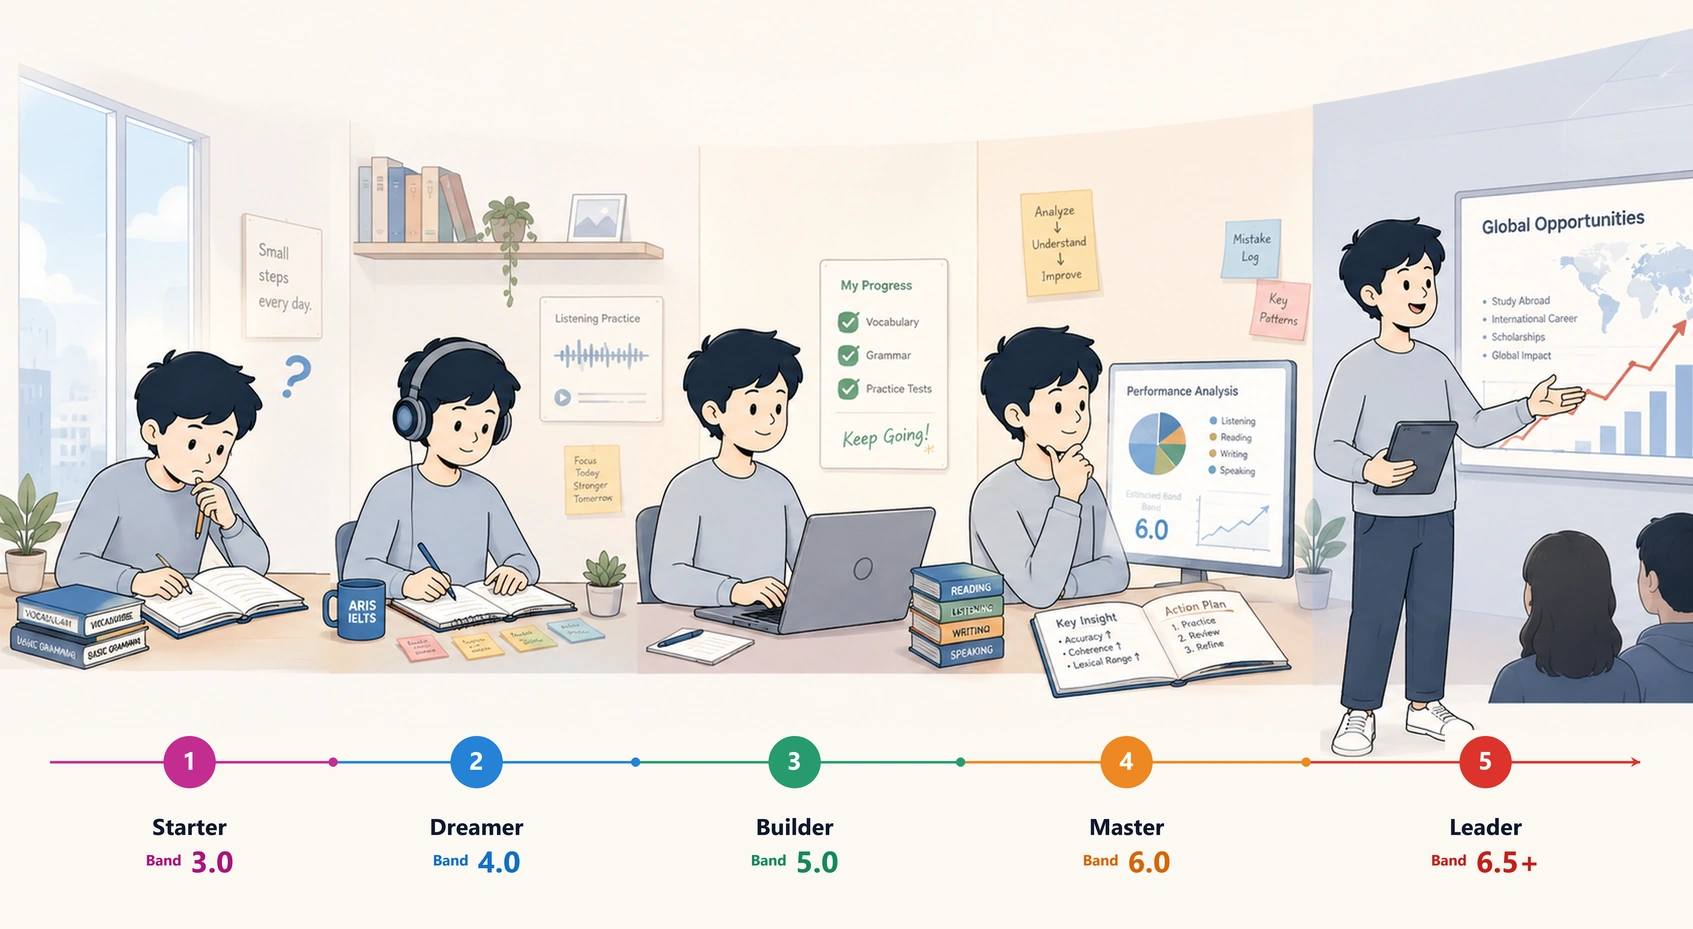
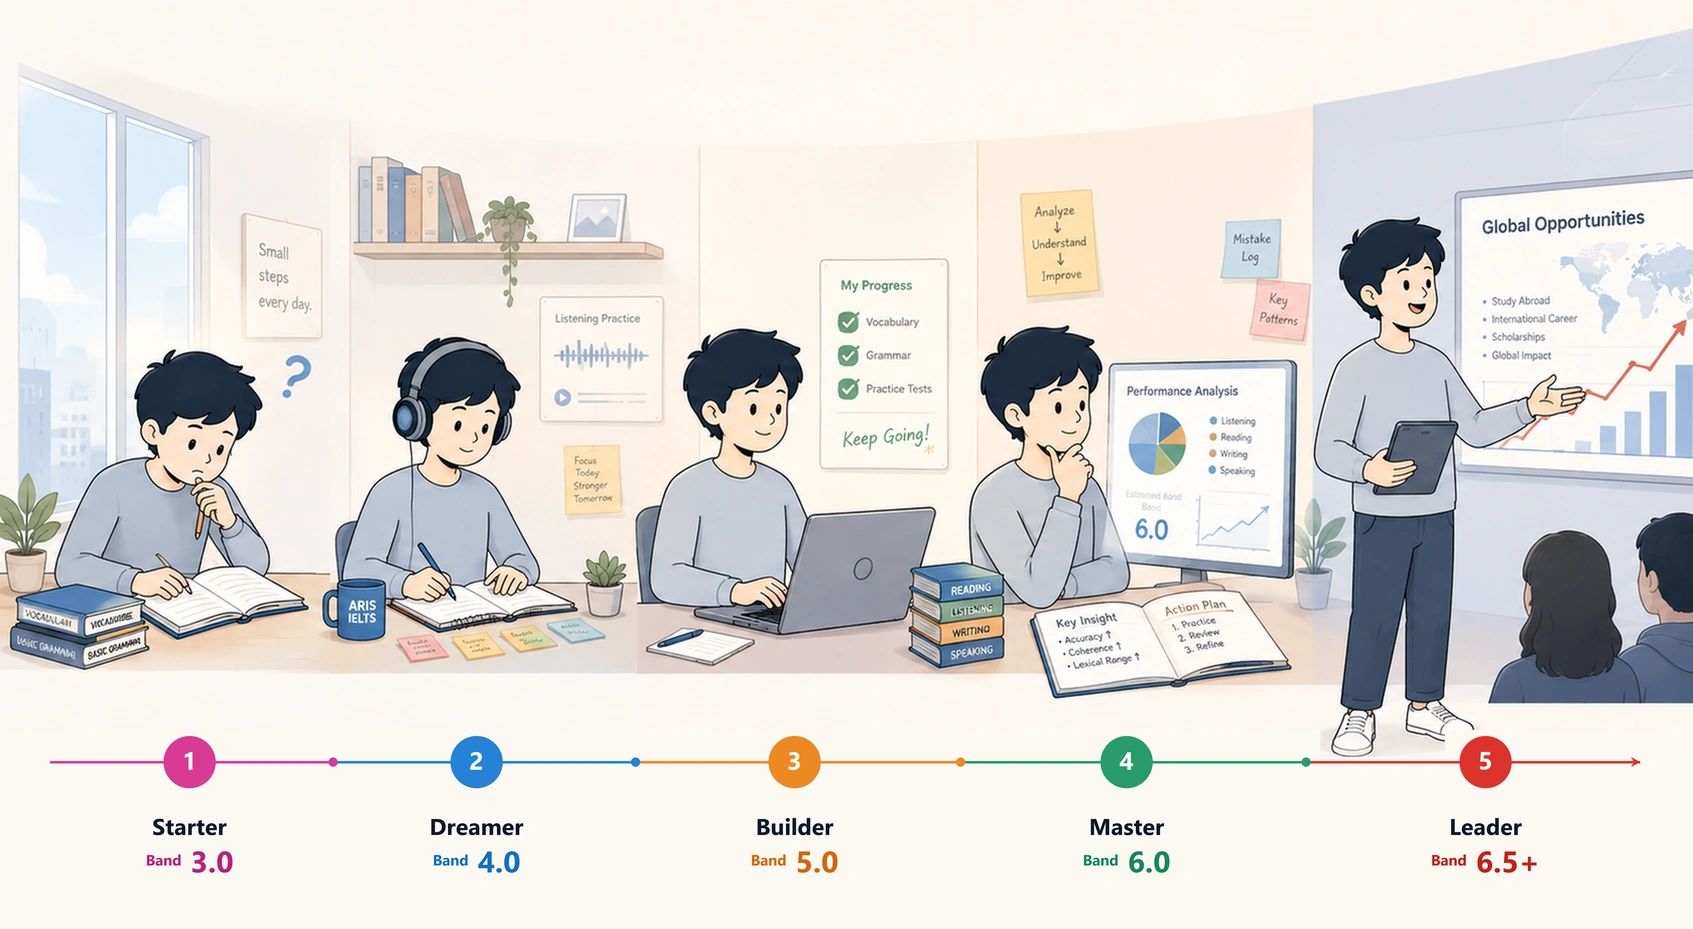
999

Changed region(s): [[0.3686, 0.7804, 0.7679, 0.8428], [0.645, 0.9053, 0.7064, 0.9365], [0.43, 0.9053, 0.4914, 0.9365]]

diff --git a/nextband/src/lib/courseBrand.ts b/nextband/src/lib/courseBrand.ts
@@ -1,0 +1,253 @@
+export interface CourseBrandInfo {
+  key: string;
+  code: string;
+  name: string;
+  band: string;
+  hex: string;
+  avatarClass: string;
+  badgeClass: string;
+  textClass: string;
+  borderClass: string;
+  dotClass: string;
+  bgSoftClass: string;
+}
+
+const COURSE_BRANDS: Record<string, CourseBrandInfo> = {
+  starter: {
+    key: 'starter',
+    code: 'ST',
+    name: 'Starter',
+    band: 'Band 3.0',
+    hex: '#D83A94',
+    avatarClass: 'bg-fuchsia-100 text-fuchsia-700 border-fuchsia-200 dark:bg-fuchsia-950/60 dark:text-fuchsia-300 dark:border-fuchsia-800',
+    badgeClass: 'bg-fuchsia-50 text-fuchsia-700 border-fuchsia-200 dark:bg-fuchsia-950/40 dark:text-fuchsia-300 dark:border-fuchsia-800',
+    textClass: 'text-fuchsia-700 dark:text-fuchsia-300',
+    borderClass: 'border-fuchsia-300 dark:border-fuchsia-800',
+    dotClass: 'bg-fuchsia-500',
+    bgSoftClass: 'bg-fuchsia-50/70 dark:bg-fuchsia-950/20',
+  },
+  dreamer: {
+    key: 'dreamer',
+    code: 'DR',
+    name: 'Dreamer',
+    band: 'Band 4.0',
+    hex: '#2582D7',
+    avatarClass: 'bg-blue-100 text-blue-700 border-blue-200 dark:bg-blue-950/60 dark:text-blue-300 dark:border-blue-800',
+    badgeClass: 'bg-blue-50 text-blue-700 border-blue-200 dark:bg-blue-950/40 dark:text-blue-300 dark:border-blue-800',
+    textClass: 'text-blue-700 dark:text-blue-300',
+    borderClass: 'border-blue-300 dark:border-blue-800',
+    dotClass: 'bg-blue-500',
+    bgSoftClass: 'bg-blue-50/70 dark:bg-blue-950/20',
+  },
+  builder: {
+    key: 'builder',
+    code: 'BU',
+    name: 'Builder',
+    band: 'Band 5.0',
+    hex: '#EE8722',
+    avatarClass: 'bg-orange-100 text-orange-700 border-orange-200 dark:bg-orange-950/60 dark:text-orange-300 dark:border-orange-800',
+    badgeClass: 'bg-orange-50 text-orange-700 border-orange-200 dark:bg-orange-950/40 dark:text-orange-300 dark:border-orange-800',
+    textClass: 'text-orange-700 dark:text-orange-300',
+    borderClass: 'border-orange-300 dark:border-orange-800',
+    dotClass: 'bg-orange-500',
+    bgSoftClass: 'bg-orange-50/70 dark:bg-orange-950/20',
+  },
+  master: {
+    key: 'master',
+    code: 'MA',
+    name: 'Master',
+    band: 'Band 6.0',
+    hex: '#289B6E',
+    avatarClass: 'bg-emerald-100 text-emerald-700 border-emerald-200 dark:bg-emerald-950/60 dark:text-emerald-300 dark:border-emerald-800',
+    badgeClass: 'bg-emerald-50 text-emerald-700 border-emerald-200 dark:bg-emerald-950/40 dark:text-emerald-300 dark:border-emerald-800',
+    textClass: 'text-emerald-700 dark:text-emerald-300',
+    borderClass: 'border-emerald-300 dark:border-emerald-800',
+    dotClass: 'bg-emerald-500',
+    bgSoftClass: 'bg-emerald-50/70 dark:bg-emerald-950/20',
+  },
+  leader: {
+    key: 'leader',
+    code: 'LE',
+    name: 'Leader',
+    band: 'Band 6.5+',
+    hex: '#DC342D',
+    avatarClass: 'bg-rose-100 text-rose-700 border-rose-200 dark:bg-rose-950/60 dark:text-rose-300 dark:border-rose-800',
+    badgeClass: 'bg-rose-50 text-rose-700 border-rose-200 dark:bg-rose-950/40 dark:text-rose-300 dark:border-rose-800',
+    textClass: 'text-rose-700 dark:text-rose-300',
+    borderClass: 'border-rose-300 dark:border-rose-800',
+    dotClass: 'bg-rose-500',
+    bgSoftClass: 'bg-rose-50/70 dark:bg-rose-950/20',
+  },
+  placement: {
+    key: 'placement',
+    code: 'PL',
+    name: 'Placement Test',
+    band: 'Test',
+    hex: '#6366F1',
+    avatarClass: 'bg-indigo-100 text-indigo-700 border-indigo-200 dark:bg-indigo-950/60 dark:text-indigo-300 dark:border-indigo-800',
+    badgeClass: 'bg-indigo-50 text-indigo-700 border-indigo-200 dark:bg-indigo-950/40 dark:text-indigo-300 dark:border-indigo-800',
+    textClass: 'text-indigo-700 dark:text-indigo-300',
+    borderClass: 'border-indigo-300 dark:border-indigo-800',
+    dotClass: 'bg-indigo-500',
+    bgSoftClass: 'bg-indigo-50/70 dark:bg-indigo-950/20',
+  },
+  extra_listening: {
+    key: 'extra_listening',
+    code: 'EX',
+    name: 'Extra Listening',
+    band: 'Listening',
+    hex: '#8B5CF6',
+    avatarClass: 'bg-purple-100 text-purple-700 border-purple-200 dark:bg-purple-950/60 dark:text-purple-300 dark:border-purple-800',
+    badgeClass: 'bg-purple-50 text-purple-700 border-purple-200 dark:bg-purple-950/40 dark:text-purple-300 dark:border-purple-800',
+    textClass: 'text-purple-700 dark:text-purple-300',
+    borderClass: 'border-purple-300 dark:border-purple-800',
+    dotClass: 'bg-purple-500',
+    bgSoftClass: 'bg-purple-50/70 dark:bg-purple-950/20',
+  },
+  entrance_thpt: {
+    key: 'entrance_thpt',
+    code: 'EN',
+    name: 'Entrance Test THPTQG',
+    band: 'THPTQG',
+    hex: '#D97706',
+    avatarClass: 'bg-amber-100 text-amber-700 border-amber-200 dark:bg-amber-950/60 dark:text-amber-300 dark:border-amber-800',
+    badgeClass: 'bg-amber-50 text-amber-700 border-amber-200 dark:bg-amber-950/40 dark:text-amber-300 dark:border-amber-800',
+    textClass: 'text-amber-700 dark:text-amber-300',
+    borderClass: 'border-amber-300 dark:border-amber-800',
+    dotClass: 'bg-amber-500',
+    bgSoftClass: 'bg-amber-50/70 dark:bg-amber-950/20',
+  },
+  luyen_thi_thpt: {
+    key: 'luyen_thi_thpt',
+    code: 'LU',
+    name: 'Luyện thi TN THPT',
+    band: 'TN THPT',
+    hex: '#0D9488',
+    avatarClass: 'bg-teal-100 text-teal-700 border-teal-200 dark:bg-teal-950/60 dark:text-teal-300 dark:border-teal-800',
+    badgeClass: 'bg-teal-50 text-teal-700 border-teal-200 dark:bg-teal-950/40 dark:text-teal-300 dark:border-teal-800',
+    textClass: 'text-teal-700 dark:text-teal-300',
+    borderClass: 'border-teal-300 dark:border-teal-800',
+    dotClass: 'bg-teal-500',
+    bgSoftClass: 'bg-teal-50/70 dark:bg-teal-950/20',
+  },
+  fallback: {
+    key: 'default',
+    code: 'CS',
+    name: 'Khóa học',
+    band: '',
+    hex: '#64748B',
+    avatarClass: 'bg-slate-100 text-slate-700 border-slate-200 dark:bg-slate-800 dark:text-slate-300 dark:border-slate-700',
+    badgeClass: 'bg-slate-50 text-slate-700 border-slate-200 dark:bg-slate-800/40 dark:text-slate-300 dark:border-slate-700',
+    textClass: 'text-slate-700 dark:text-slate-300',
+    borderClass: 'border-slate-300 dark:border-slate-700',
+    dotClass: 'bg-slate-500',
+    bgSoftClass: 'bg-slate-50/70 dark:bg-slate-900/20',
+  },
+};
+
+export function getCourseBrand(
+  input:
+    | {
+        title?: string;
+        name?: string;
+        slug?: string;
+        courseId?: string;
+        band?: string;
+      }
+    | string
+    | null
+    | undefined
+): CourseBrandInfo {
+  if (!input) return COURSE_BRANDS.fallback;
+
+  let rawStr = '';
+  if (typeof input === 'string') {
+    rawStr = input.trim();
+  } else {
+    rawStr = [input.slug, input.title, input.name, input.band]
+      .filter(Boolean)
+      .join(' ')
+      .trim();
+  }
+
+  const lower = rawStr.toLowerCase();
+  const upper = rawStr.toUpperCase();
+
+  // 1. Check Master (Green)
+  if (
+    lower.includes('master') ||
+    /\b(MA|M\d+)\b/i.test(rawStr) ||
+    /^M\d+/i.test(rawStr) ||
+    lower.includes('6.0')
+  ) {
+    return COURSE_BRANDS.master;
+  }
+
+  // 2. Check Builder (Orange)
+  if (
+    lower.includes('builder') ||
+    /\b(BU|B\d+)\b/i.test(rawStr) ||
+    /^B\d+/i.test(rawStr) ||
+    lower.includes('5.0')
+  ) {
+    return COURSE_BRANDS.builder;
+  }
+
+  // 3. Check Dreamer (Blue)
+  if (
+    lower.includes('dreamer') ||
+    /\b(DR|D\d+)\b/i.test(rawStr) ||
+    /^D\d+/i.test(rawStr) ||
+    lower.includes('4.0')
+  ) {
+    return COURSE_BRANDS.dreamer;
+  }
+
+  // 4. Check Starter (Pink/Fuchsia)
+  if (
+    lower.includes('starter') ||
+    /\b(ST|S\d+)\b/i.test(rawStr) ||
+    /^S\d+/i.test(rawStr) ||
+    lower.includes('3.0')
+  ) {
+    return COURSE_BRANDS.starter;
+  }
+
+  // 5. Check Leader (Red)
+  if (
+    lower.includes('leader') ||
+    /\b(LE|L\d+)\b/i.test(rawStr) ||
+    /^L\d+/i.test(rawStr) ||
+    lower.includes('6.5') ||
+    lower.includes('7.0')
+  ) {
+    return COURSE_BRANDS.leader;
+  }
+
+  // 6. Placement Test
+  if (lower.includes('placement') || upper.startsWith('PL') || /\bPL\b/i.test(rawStr)) {
+    return COURSE_BRANDS.placement;
+  }
+
+  // 7. Extra Listening
+  if (lower.includes('extra') || lower.includes('listening') || upper.startsWith('EX') || /\bEX\b/i.test(rawStr)) {
+    return COURSE_BRANDS.extra_listening;
+  }
+
+  // 8. Entrance Test THPTQG
+  if (lower.includes('entrance') || upper.startsWith('EN') || /\bEN\b/i.test(rawStr)) {
+    return COURSE_BRANDS.entrance_thpt;
+  }
+
+  // 9. Luyện thi TN THPT
+  if (lower.includes('luyện thi') || lower.includes('luyen thi') || upper.startsWith('LU') || /\bLU\b/i.test(rawStr)) {
+    return COURSE_BRANDS.luyen_thi_thpt;
+  }
+
+  const code = rawStr.length >= 2 ? rawStr.substring(0, 2).toUpperCase() : 'CS';
+  return {
+    ...COURSE_BRANDS.fallback,
+    code,
+    name: typeof input === 'string' ? input : input.title || input.name || 'Khóa học',
+  };
+}

diff --git a/nextband/src/pages/admin/Courses.tsx b/nextband/src/pages/admin/Courses.tsx
@@ -39,6 +39,7 @@ import { Link } from "react-router-dom";
 import { useToast } from "@/hooks/use-toast";
 import { DataTablePagination } from "@/components/admin/DataTablePagination";
 import DeleteConfirmDialog from "@/components/admin/DeleteConfirmDialog";
+import { getCourseBrand } from "@/lib/courseBrand";
 
 type SortOption = "newest" | "name" | "level";
 
@@ -223,29 +224,34 @@ export default function AdminCourses() {
               </TableRow>
             ) : (
               /* 4. SUCCESS DATA STATE */
-              coursesList.map((course: any) => (
-                <TableRow key={course.id} className="hover:bg-muted/40 transition-colors">
-                  {/* PROGRAM TITLE */}
-                  <TableCell>
-                    <div className="flex items-center gap-3">
-                      <div className="h-9 w-9 rounded-lg bg-primary/10 flex items-center justify-center font-bold text-primary text-xs shrink-0">
-                        {course.title ? course.title.substring(0, 2).toUpperCase() : "CS"}
+              coursesList.map((course: any) => {
+                const brand = getCourseBrand(course);
+                return (
+                  <TableRow key={course.id} className="hover:bg-muted/40 transition-colors">
+                    {/* PROGRAM TITLE */}
+                    <TableCell>
+                      <div className="flex items-center gap-3">
+                        <div
+                          className={`h-9 w-9 rounded-lg flex items-center justify-center font-bold text-xs shrink-0 border shadow-2xs ${brand.avatarClass}`}
+                          title={`${brand.name} (${brand.band})`}
+                        >
+                          {brand.code}
+                        </div>
+                        <div>
+                          <Link to={`/admin/courses/${course.id}`} className="font-semibold text-sm hover:text-primary transition-colors block">
+                            {course.title}
+                          </Link>
+                          <p className="text-xs text-muted-foreground line-clamp-1">{course.description || "Chưa có mô tả ngắn"}</p>
+                        </div>
                       </div>
-                      <div>
-                        <Link to={`/admin/courses/${course.id}`} className="font-semibold text-sm hover:text-primary transition-colors block">
-                          {course.title}
-                        </Link>
-                        <p className="text-xs text-muted-foreground line-clamp-1">{course.description || "Chưa có mô tả ngắn"}</p>
-                      </div>
-                    </div>
-                  </TableCell>
+                    </TableCell>
 
-                  {/* BAND */}
-                  <TableCell className="text-xs font-semibold text-foreground">
-                    <Badge variant="outline" className="bg-muted/50 font-mono">
-                      {course.band || "Target 6.5"}
-                    </Badge>
-                  </TableCell>
+                    {/* BAND */}
+                    <TableCell className="text-xs font-semibold">
+                      <Badge variant="outline" className={`font-mono border ${brand.badgeClass}`}>
+                        {course.band || brand.band || "Target 6.5"}
+                      </Badge>
+                    </TableCell>
 
                   {/* TUITION FEE */}
                   <TableCell className="text-xs font-medium text-right text-emerald-700 font-mono">
@@ -365,8 +371,9 @@ export default function AdminCourses() {
                       </DropdownMenuContent>
                     </DropdownMenu>
                   </TableCell>
-                </TableRow>
-              ))
+                  </TableRow>
+                );
+              })
             )}
           </TableBody>
         </Table>

diff --git a/nextband/src/pages/admin/Classes.tsx b/nextband/src/pages/admin/Classes.tsx
@@ -65,6 +65,7 @@ import { useToast } from "@/hooks/use-toast";
 import { useAuth } from "@/hooks/useAuth";
 import { DataTablePagination } from "@/components/admin/DataTablePagination";
 import DeleteConfirmDialog from "@/components/admin/DeleteConfirmDialog";
+import { getCourseBrand } from "@/lib/courseBrand";
 
 type SortField = "name" | "createdAt";
 
@@ -636,6 +637,9 @@ export default function AdminClasses() {
                 const progressPercent = totalSessions > 0 ? Math.min(100, Math.round((currentHw / totalSessions) * 100)) : 0;
                 const pendingCount = cls.pendingSubmissionsCount || 0;
 
+                const courseMatch = courses.find((c: any) => c.id === (cls.courseId || cls.course_id || cls.course?.id));
+                const brand = getCourseBrand(courseMatch || cls.course || cls.name);
+
                 return (
                   <TableRow
                     key={cls.id}
@@ -651,13 +655,33 @@ export default function AdminClasses() {
                     }}
                   >
                     <TableCell className="font-semibold text-slate-900 dark:text-slate-100">
-                      <div className="flex items-center gap-2">
-                        <span className="group-hover:text-emerald-600 transition-colors">
-                          {cls.name}
-                        </span>
-                        {cls.isActive === false && (
-                          <Badge variant="outline" className="text-xs text-muted-foreground">Tạm dừng</Badge>
-                        )}
+                      <div className="flex items-center gap-3">
+                        <div
+                          className={`h-9 w-9 rounded-lg flex items-center justify-center font-bold text-xs shrink-0 border shadow-2xs ${brand.avatarClass}`}
+                          title={`${brand.name} (${brand.band})`}
+                        >
+                          {brand.code}
+                        </div>
+                        <div className="flex flex-col min-w-0">
+                          <div className="flex items-center gap-2">
+                            <span className="group-hover:text-primary transition-colors font-semibold truncate">
+                              {cls.name}
+                            </span>
+                            {cls.isActive === false && (
+                              <Badge variant="outline" className="text-[10px] text-muted-foreground py-0 px-1.5 h-4">Tạm dừng</Badge>
+                            )}
+                          </div>
+                          <div className="flex items-center gap-1.5 mt-0.5 text-xs">
+                            <span className={`font-semibold text-[11px] ${brand.textClass}`}>
+                              {brand.name}
+                            </span>
+                            {brand.band && (
+                              <span className="text-[10px] text-muted-foreground font-mono">
+                                • {brand.band}
+                              </span>
+                            )}
+                          </div>
+                        </div>
                       </div>
                     </TableCell>
                     <TableCell>
